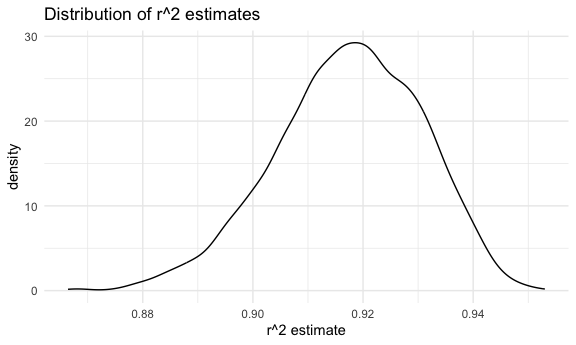
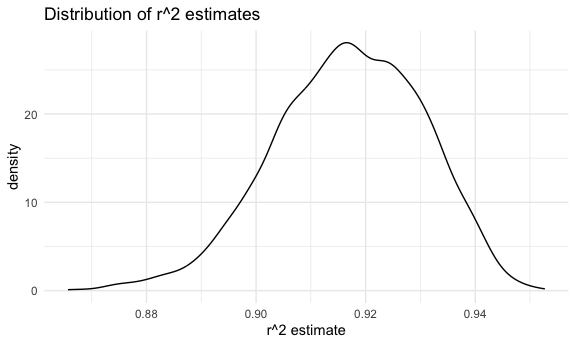
set.seed for boostrap

diff --git a/p8105_hw6_yl5214.md b/p8105_hw6_yl5214.md
@@ -32,6 +32,7 @@ boot_sample = function(df) {
   sample_frac(df, replace = TRUE)
   
 }
+set.seed(1)
 #draw 5000 sample and fit the model to each strap number
 boot_results=
   tibble(strap_number=1:5000) |> 
@@ -100,7 +101,7 @@ boot_results |>
     ## # A tibble: 1 × 2
     ##   ci_lower ci_upper
     ##      <dbl>    <dbl>
-    ## 1    -9.00    -4.55
+    ## 1    -8.98    -4.60
 
 ## interpretation:
 
@@ -247,6 +248,9 @@ cv_results |>
 ```
 
 <img src="p8105_hw6_yl5214_files/figure-gfm/unnamed-chunk-8-1.png" width="90%" />
-\##Conclusion: model 1, which is the model including 6 variables is the
-best model because it has the smallest rmse value, indicating the
-model’s predictions are closer to the actual values.
+
+# Conclusion:
+
+model 1, which is the model including 6 variables is the best model
+because it has the smallest rmse value, indicating the model’s
+predictions are closer to the actual values.
